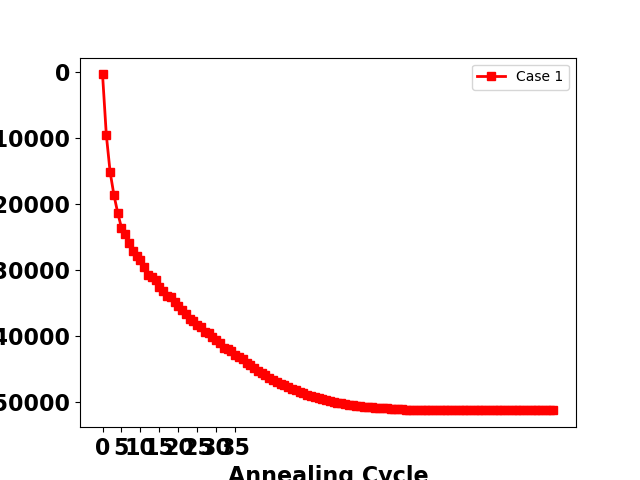
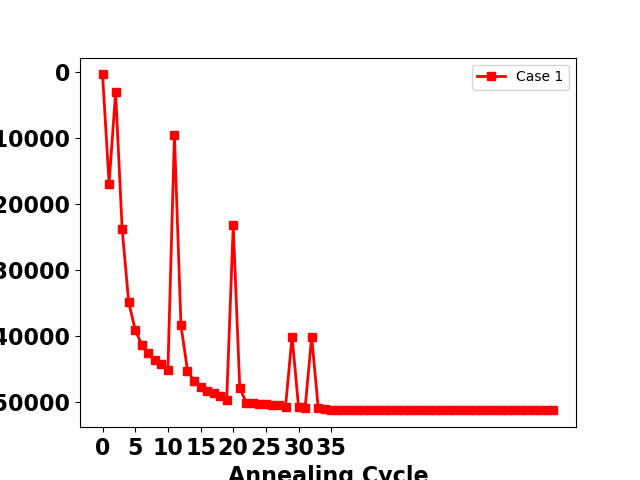
100x64 done

Changed region(s): [[0.1562, 0.1875, 0.625, 0.875], [0.1562, 0.9062, 0.5625, 0.9688]]

diff --git a/Ising_computation_SA.py b/Ising_computation_SA.py
@@ -359,9 +359,9 @@ def annealing_ver3(image_size,this_spin):
 def ising_test_data():
     this_spin = []
     next_spin = []
-    N_trials = 120
+    N_trials = 10
     T_max = 0.01
-    T_min = 0.0001
+    T_min = 0.00001
     T_factor = -math.log(T_max / T_min)
 
     # T = T_max * math.exp(T_factor * i / N_trials)  # exponential cooling schedule
@@ -376,32 +376,43 @@ def ising_test_data():
     # Generate J
     J = img2dict_generate_j(rows,cols,image_name)
 
-    # start Ising
-    # next_spin = initial_spin
-    # this_spin,KPI,H_sigma_array = Ising_start(initial_spin,J,rows,cols,1,Ising_KPI)
+    probability = []
+    target_index = -1
 
-
-    # annealing
-    # next_spin = annealing_ver2(10, 2200, this_spin, image_size, cols)
-    # this_spin,KPI,H_sigma_array = Ising_start(next_spin,J,rows,cols,1,Ising_KPI)
+    # num_flip = [2200, 1000, 800, 1500, 300, 900, 500, 500, 200, 400, 230, 100, 30, 50, 10, 30]
+    for i in range(2*N_trials):
+        T = T_max * math.exp(T_factor * i / 100)  # exponential cooling schedule
+        probability.append(math.exp(-0.01 / T))
+        # print("probability = ", probability)
+        # num_flip = 6000 * probability
+        # print(num_flip)
 
     for i in range(N_trials):
-        T = T_max * math.exp(T_factor * i / 200)  # exponential cooling schedule
-        # print("Temperature = ", T)
-        probability = math.exp(-T_max / T)
-        print("probability = ", probability)
-        print(2200*probability)
-
+        target_index = int(target_index+1+2*i)
         if i==0:
-            this_spin, KPI, H_sigma_array = Ising_start(initial_spin, J, rows, cols, 1, Ising_KPI)
+            this_spin, KPI, H_sigma_array = Ising_start(initial_spin, J, rows, cols, 2, Ising_KPI)
         else:
             # print("next spin =",next_spin)
-            this_spin, KPI, H_sigma_array = Ising_start(next_spin, J, rows, cols, 1, Ising_KPI)
-        if i%100 == 0:
+            this_spin, KPI, H_sigma_array = Ising_start(next_spin, J, rows, cols, random.randint(1, 10), Ising_KPI)
+        # print pic
+        if i%10 == 0:
+            plt.imshow(this_spin, cmap='Greys')
+            plt.show()
+        elif i == (N_trials-1):
             plt.imshow(this_spin, cmap='Greys')
             plt.show()
 
-        next_spin = annealing_ver2(i, int(2200*probability), this_spin, image_size, cols)
+        # if i< len(num_flip):
+        #     next_spin = annealing_ver2(i, num_flip[i], this_spin, image_size, cols)
+        if target_index<2*N_trials:
+            num_flip = 6000 * probability[target_index]
+            print('target index = ', target_index)
+            print(num_flip)
+
+        if i<N_trials-5:
+            next_spin = annealing_ver2(i, int(num_flip), this_spin, image_size, cols)
+        else:
+            next_spin = this_spin
 
     return KPI
 
